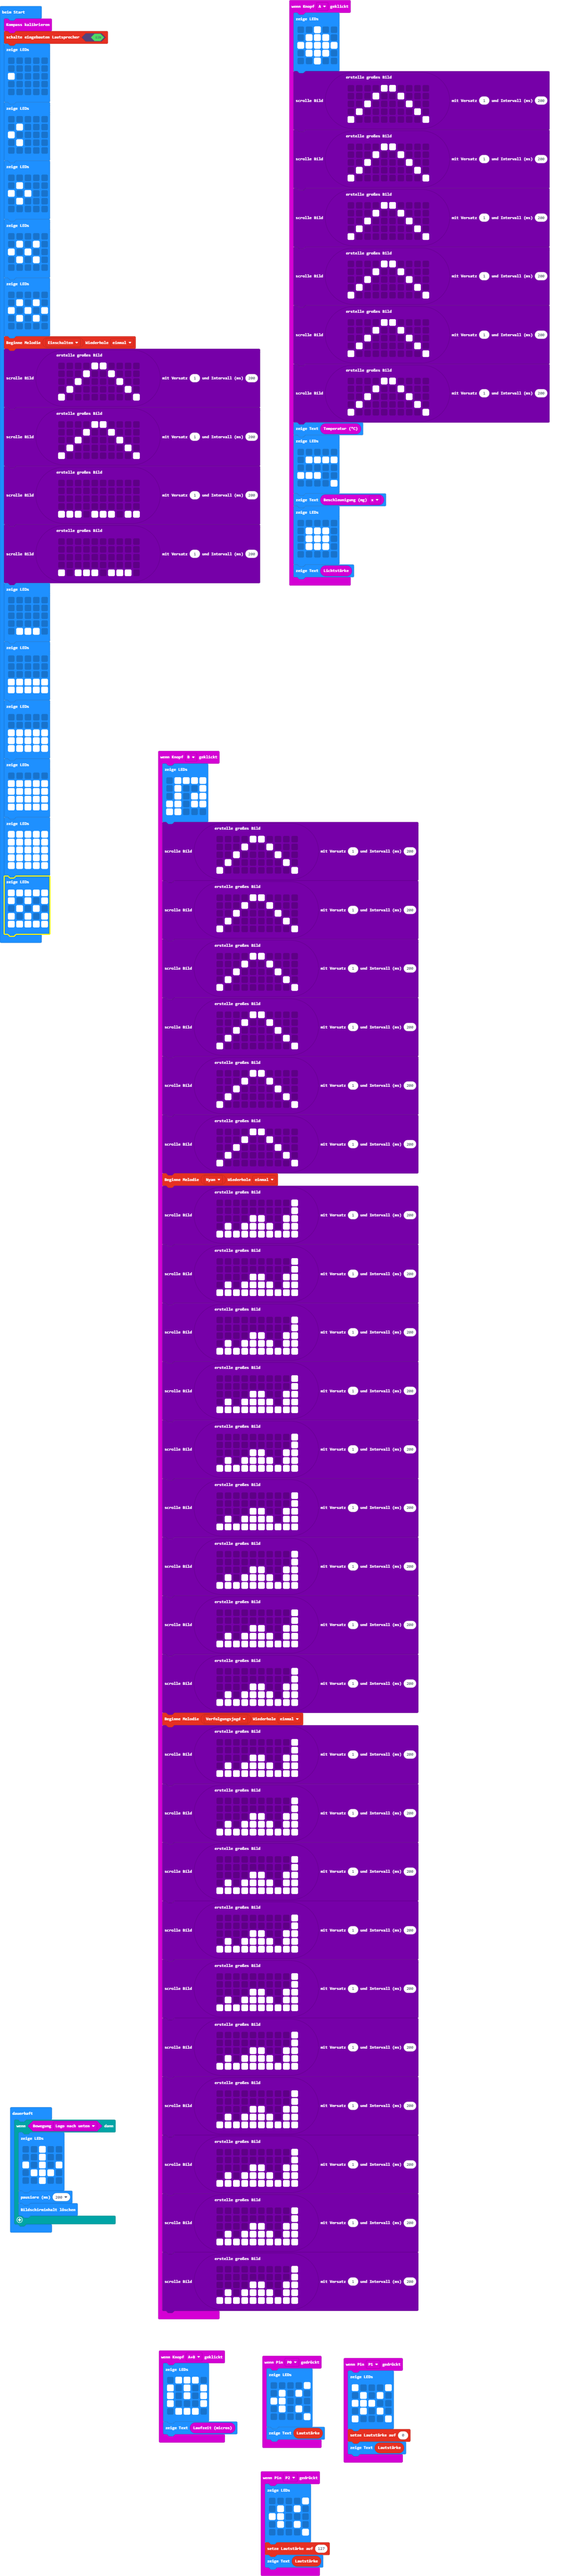
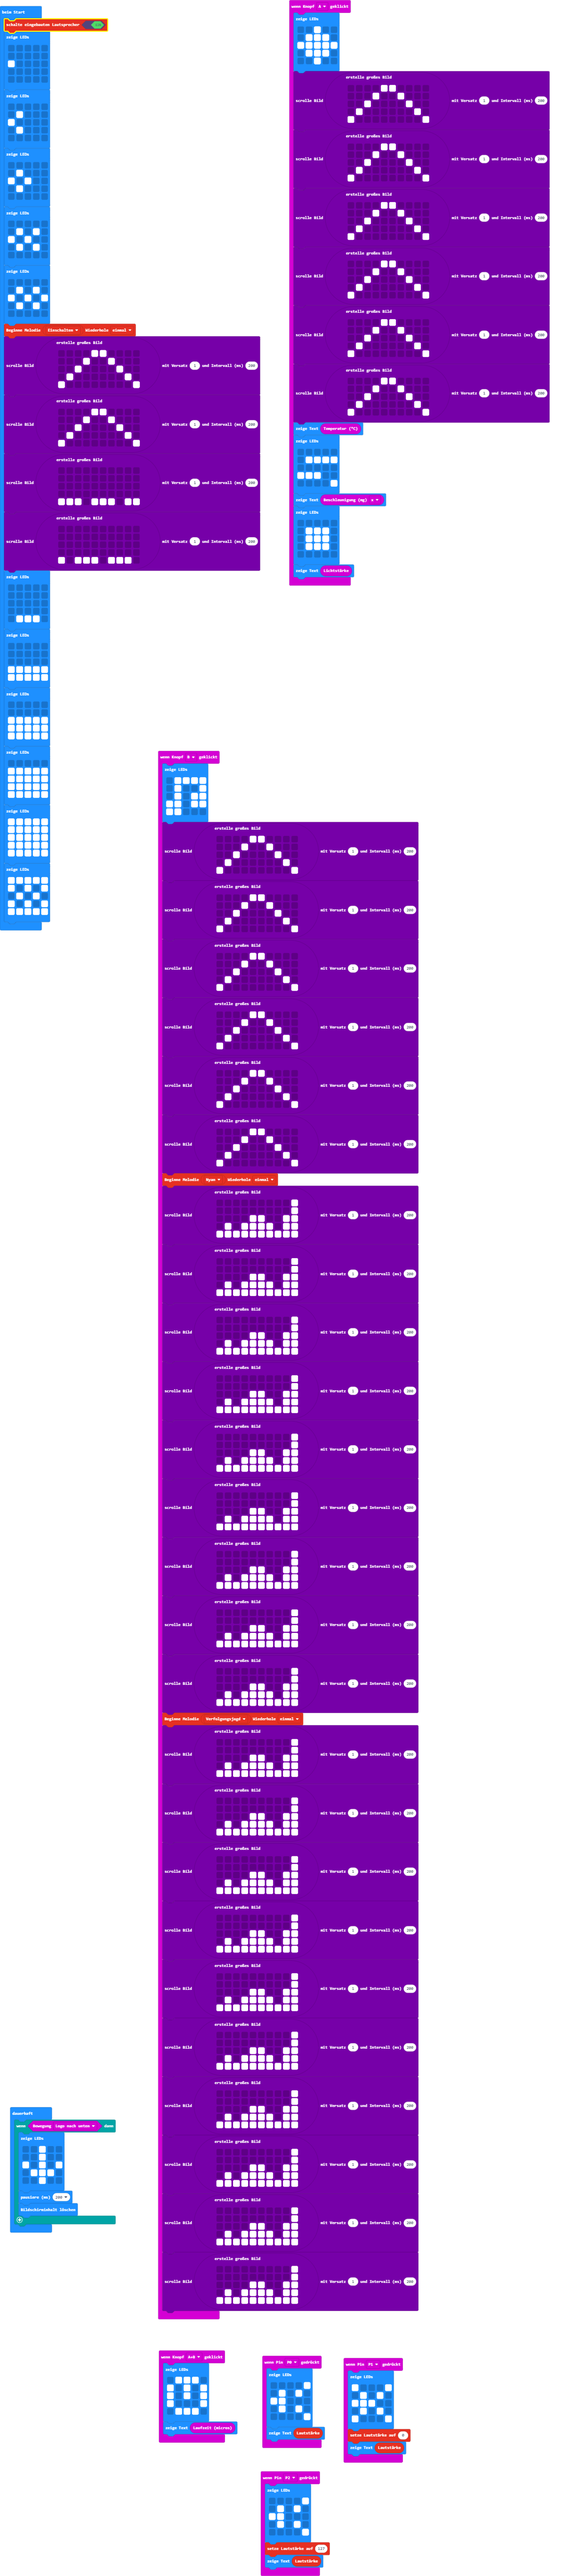
Komapss Kalibrieren Gelöscht

Changed region(s): [[0.0, 0.0, 0.4575, 0.3734]]

diff --git a/main.ts b/main.ts
@@ -294,7 +294,6 @@ input.onPinPressed(TouchPin.P1, function () {
     music.setVolume(0)
     basic.showString("" + (music.volume()))
 })
-input.calibrateCompass()
 music.setBuiltInSpeakerEnabled(true)
 basic.showLeds(`
     . . . . .
